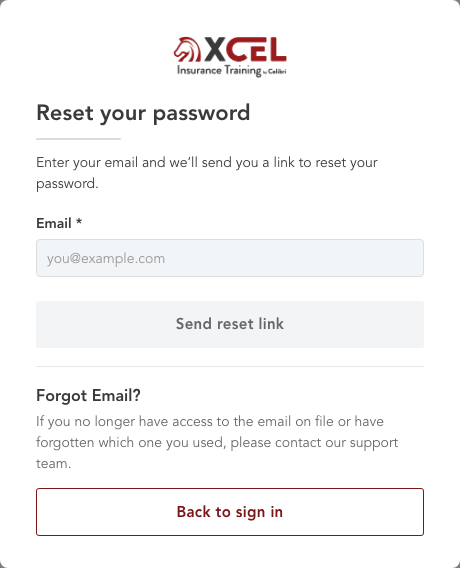
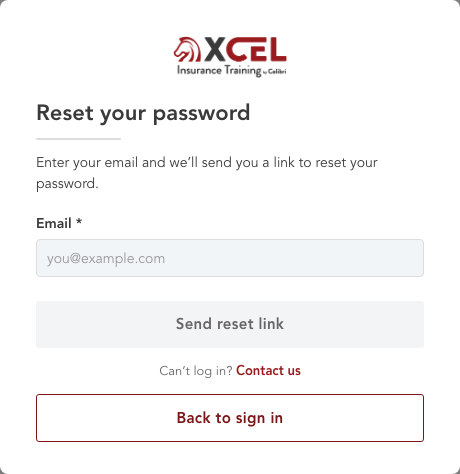
feat(invite-v3): Reset your password — no Forgot Email?, Contact us instead
On both Reset your password screens, Forgot Email?, its sentence and the
rule above it are gone. "Can't log in? Contact us" (xcelsolutions.com/
contact-us, in a new tab) takes their place: the Log In flow's card ends
with it; the checkout modal has it between Send reset link and Back to sign
in. One `ContactUsLine` for both. Both screens recaptured.

diff --git a/src/components/e2e/VerifyEmailModalV3.tsx b/src/components/e2e/VerifyEmailModalV3.tsx
@@ -679,45 +679,23 @@ function LoginStep({
           </label>
           {badResetEmail ? <EmailInvalid id="reset-request-invalid" /> : null}
         </div>
-        {/* Send reset link, primary; then a light rule, "Forgot Email?" and
-            where to turn, then Back to sign in, secondary (2026-11-20,
-            Afsana). */}
+        {/* Send reset link, primary; then "Can't log in? Contact us" — and on
+            the checkout, Back to sign in under it. Forgot Email? and its
+            sentence went on 2026-11-23 (Afsana), on both, for Contact us. */}
         <div style={ACTIONS}>
           <button type="submit" className="cre-e2e-cta" disabled={!valid} aria-disabled={!valid} style={valid ? CTA : CTA_OFF}>
             Send reset link
           </button>
-          <hr aria-hidden style={FORGOT_EMAIL_RULE} />
-          <div style={FORGOT_EMAIL}>
-            <h3 style={FORGOT_EMAIL_TITLE}>Forgot Email?</h3>
-            <p style={FORGOT_EMAIL_TEXT}>
-              If you no longer have access to the email on file or have forgotten which one you used, please contact our
-              support team.
-            </p>
-          </div>
+          {onBack ? null : <ContactUsLine />}
           {onBack ? null : (
             <button type="button" style={CTA_SECONDARY} onClick={() => setRequesting(false)}>
               Back to sign in
             </button>
           )}
         </div>
-        {/* The Log In flow's way out, at the foot of Reset your password —
-            moved from its Log in and renamed (2026-11-23, Afsana: "Can't log
-            in? Contact us", to XCEL's contact page in a new tab). */}
-        {onBack ? (
-          <p style={{ ...NOTE, textAlign: 'center' }}>
-            Can’t log in?{' '}
-            <a
-              href={XCEL_CONTACT_US}
-              target="_blank"
-              rel="noopener noreferrer"
-              className="cre-e2e-textlink"
-              style={{ ...TEXT_LINK, color: 'var(--color-xcel-brick)', textDecoration: 'none' }}
-            >
-              Contact us
-              <span style={VISUALLY_HIDDEN}> (opens in a new tab)</span>
-            </a>
-          </p>
-        ) : null}
+        {/* On the Log In flow, with no Back to sign in, it is the card's last
+            line (2026-11-23, Afsana). */}
+        {onBack ? <ContactUsLine /> : null}
         {/* The demo fill — the same invisible, labelled corner as the email
             step's. */}
         <button
@@ -965,6 +943,27 @@ export function KeycloakLogInCardV3({
         />
       )}
     </section>
+  )
+}
+
+/** "Can't log in? Contact us" — XCEL's contact page in a new tab, at the foot
+ *  of Reset your password (2026-11-23, Afsana; it was "Visit our help
+ *  center", drawn only, on Log in). */
+function ContactUsLine() {
+  return (
+    <p style={{ ...NOTE, textAlign: 'center', alignSelf: 'stretch' }}>
+      Can’t log in?{' '}
+      <a
+        href={XCEL_CONTACT_US}
+        target="_blank"
+        rel="noopener noreferrer"
+        className="cre-e2e-textlink"
+        style={{ ...TEXT_LINK, color: 'var(--color-xcel-brick)', textDecoration: 'none' }}
+      >
+        Contact us
+        <span style={VISUALLY_HIDDEN}> (opens in a new tab)</span>
+      </a>
+    </p>
   )
 }
 
@@ -1328,35 +1327,8 @@ function EmailInvalid({ id }: { id: string }) {
   )
 }
 
-/* Reset your password — enter email: the rule under Send reset link, and
-   "Forgot Email?" under it (2026-11-20, Afsana). */
-const FORGOT_EMAIL_RULE: CSSProperties = {
-  alignSelf: 'stretch',
-  height: 0,
-  margin: '4px 0',
-  border: 'none',
-  borderTop: '1px solid var(--color-e2e-form-outline)',
-}
-
-const FORGOT_EMAIL: CSSProperties = { display: 'flex', flexDirection: 'column', gap: 4 }
-
-const FORGOT_EMAIL_TITLE: CSSProperties = {
-  margin: 0,
-  fontFamily: 'var(--font-e2e-avenir)',
-  fontWeight: 800,
-  fontSize: 16,
-  lineHeight: '22px',
-  color: 'var(--color-text-primary)',
-}
-
-const FORGOT_EMAIL_TEXT: CSSProperties = {
-  margin: 0,
-  fontFamily: 'var(--font-e2e-avenir)',
-  fontSize: 14,
-  lineHeight: '21px',
-  color: 'var(--color-text-secondary)',
-}
-
+/* The card's buttons, stacked — on Reset your password, Send reset link,
+   Contact us, Back to sign in. */
 const ACTIONS: CSSProperties = {
   display: 'flex',
   flexDirection: 'column',

diff --git a/src/test/InviteFlowV3Screens.test.tsx b/src/test/InviteFlowV3Screens.test.tsx
@@ -533,17 +533,16 @@ describe('Invite Flow V3 — the email check', () => {
     const dialog = screen.getByRole('dialog', { name: 'Reset your password' })
     expect(within(dialog).getByAltText('XCEL Insurance Training by Colibri')).toBeInTheDocument()
     expect(dialog).toHaveTextContent('Enter your email and we’ll send you a link to reset your password.')
-    /* Under Send reset link: a rule, then Forgot Email? and where to turn,
-       then Back to sign in (2026-11-20). */
-    expect(within(dialog).getByRole('heading', { name: 'Forgot Email?' })).toBeInTheDocument()
-    expect(dialog).toHaveTextContent(
-      'If you no longer have access to the email on file or have forgotten which one you used, please contact our support team.',
-    )
-    const order = [...dialog.querySelectorAll('button, h3, hr')].map((e) => e.tagName === 'BUTTON' ? e.textContent : e.tagName)
+    /* Under Send reset link: "Can't log in? Contact us", then Back to sign
+       in — Forgot Email? went on 2026-11-23. */
+    expect(within(dialog).queryByText('Forgot Email?')).not.toBeInTheDocument()
+    const contact = within(dialog).getByRole('link', { name: /Contact us/ })
+    expect(contact).toHaveAttribute('href', 'https://www.xcelsolutions.com/contact-us')
+    expect(contact).toHaveAttribute('target', '_blank')
+    const order = [...dialog.querySelectorAll('button, a')].map((e) => e.textContent?.replace(' (opens in a new tab)', ''))
     expect(order.slice(order.indexOf('Send reset link'), order.indexOf('Back to sign in') + 1)).toEqual([
       'Send reset link',
-      'HR',
-      'H3',
+      'Contact us',
       'Back to sign in',
     ])
     const field = within(dialog).getByLabelText(/^Email\s*\*?$/)

diff --git a/src/test/LogInFlowV3.test.tsx b/src/test/LogInFlowV3.test.tsx
@@ -159,6 +159,7 @@ describe('Invite Flow V3 — Log In', () => {
     await user.click(screen.getByRole('button', { name: 'Forgot password?' }))
     expect(screen.getByRole('heading', { name: 'Reset your password' })).toBeInTheDocument()
     expect(screen.queryByRole('button', { name: 'Back to sign in' })).not.toBeInTheDocument()
+    expect(screen.queryByText('Forgot Email?')).not.toBeInTheDocument()
     /* Can't log in? moved here from Log in, as Contact us (2026-11-23). */
     const contact = screen.getByRole('link', { name: /Contact us/ })
     expect(contact).toHaveAttribute('href', 'https://www.xcelsolutions.com/contact-us')
